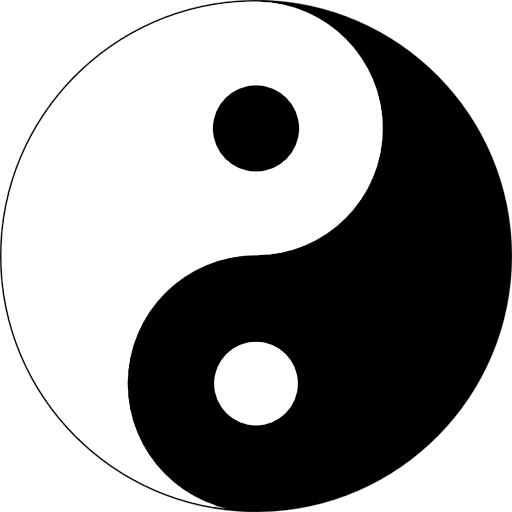
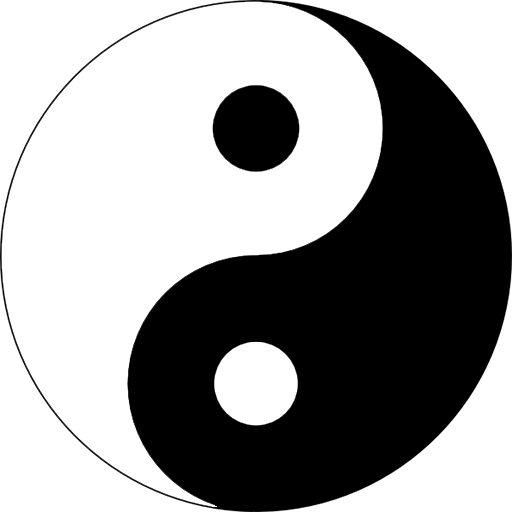
Yin yang

Changed region(s): [[0.375, 0.9688, 0.4375, 1.0]]

diff --git a/codex/dialectica.html b/codex/dialectica.html
@@ -87,7 +87,7 @@
 								</div>
 							</div>
 							<div class="yin-yang">
-								<img src="https://acozar.github.io/src/img/ktr-icons-dialectica.png">
+								<img src="https://acozar.github.io/src/img/yin-yang.png">
 							</div>
 							<hr>
 						</div>
